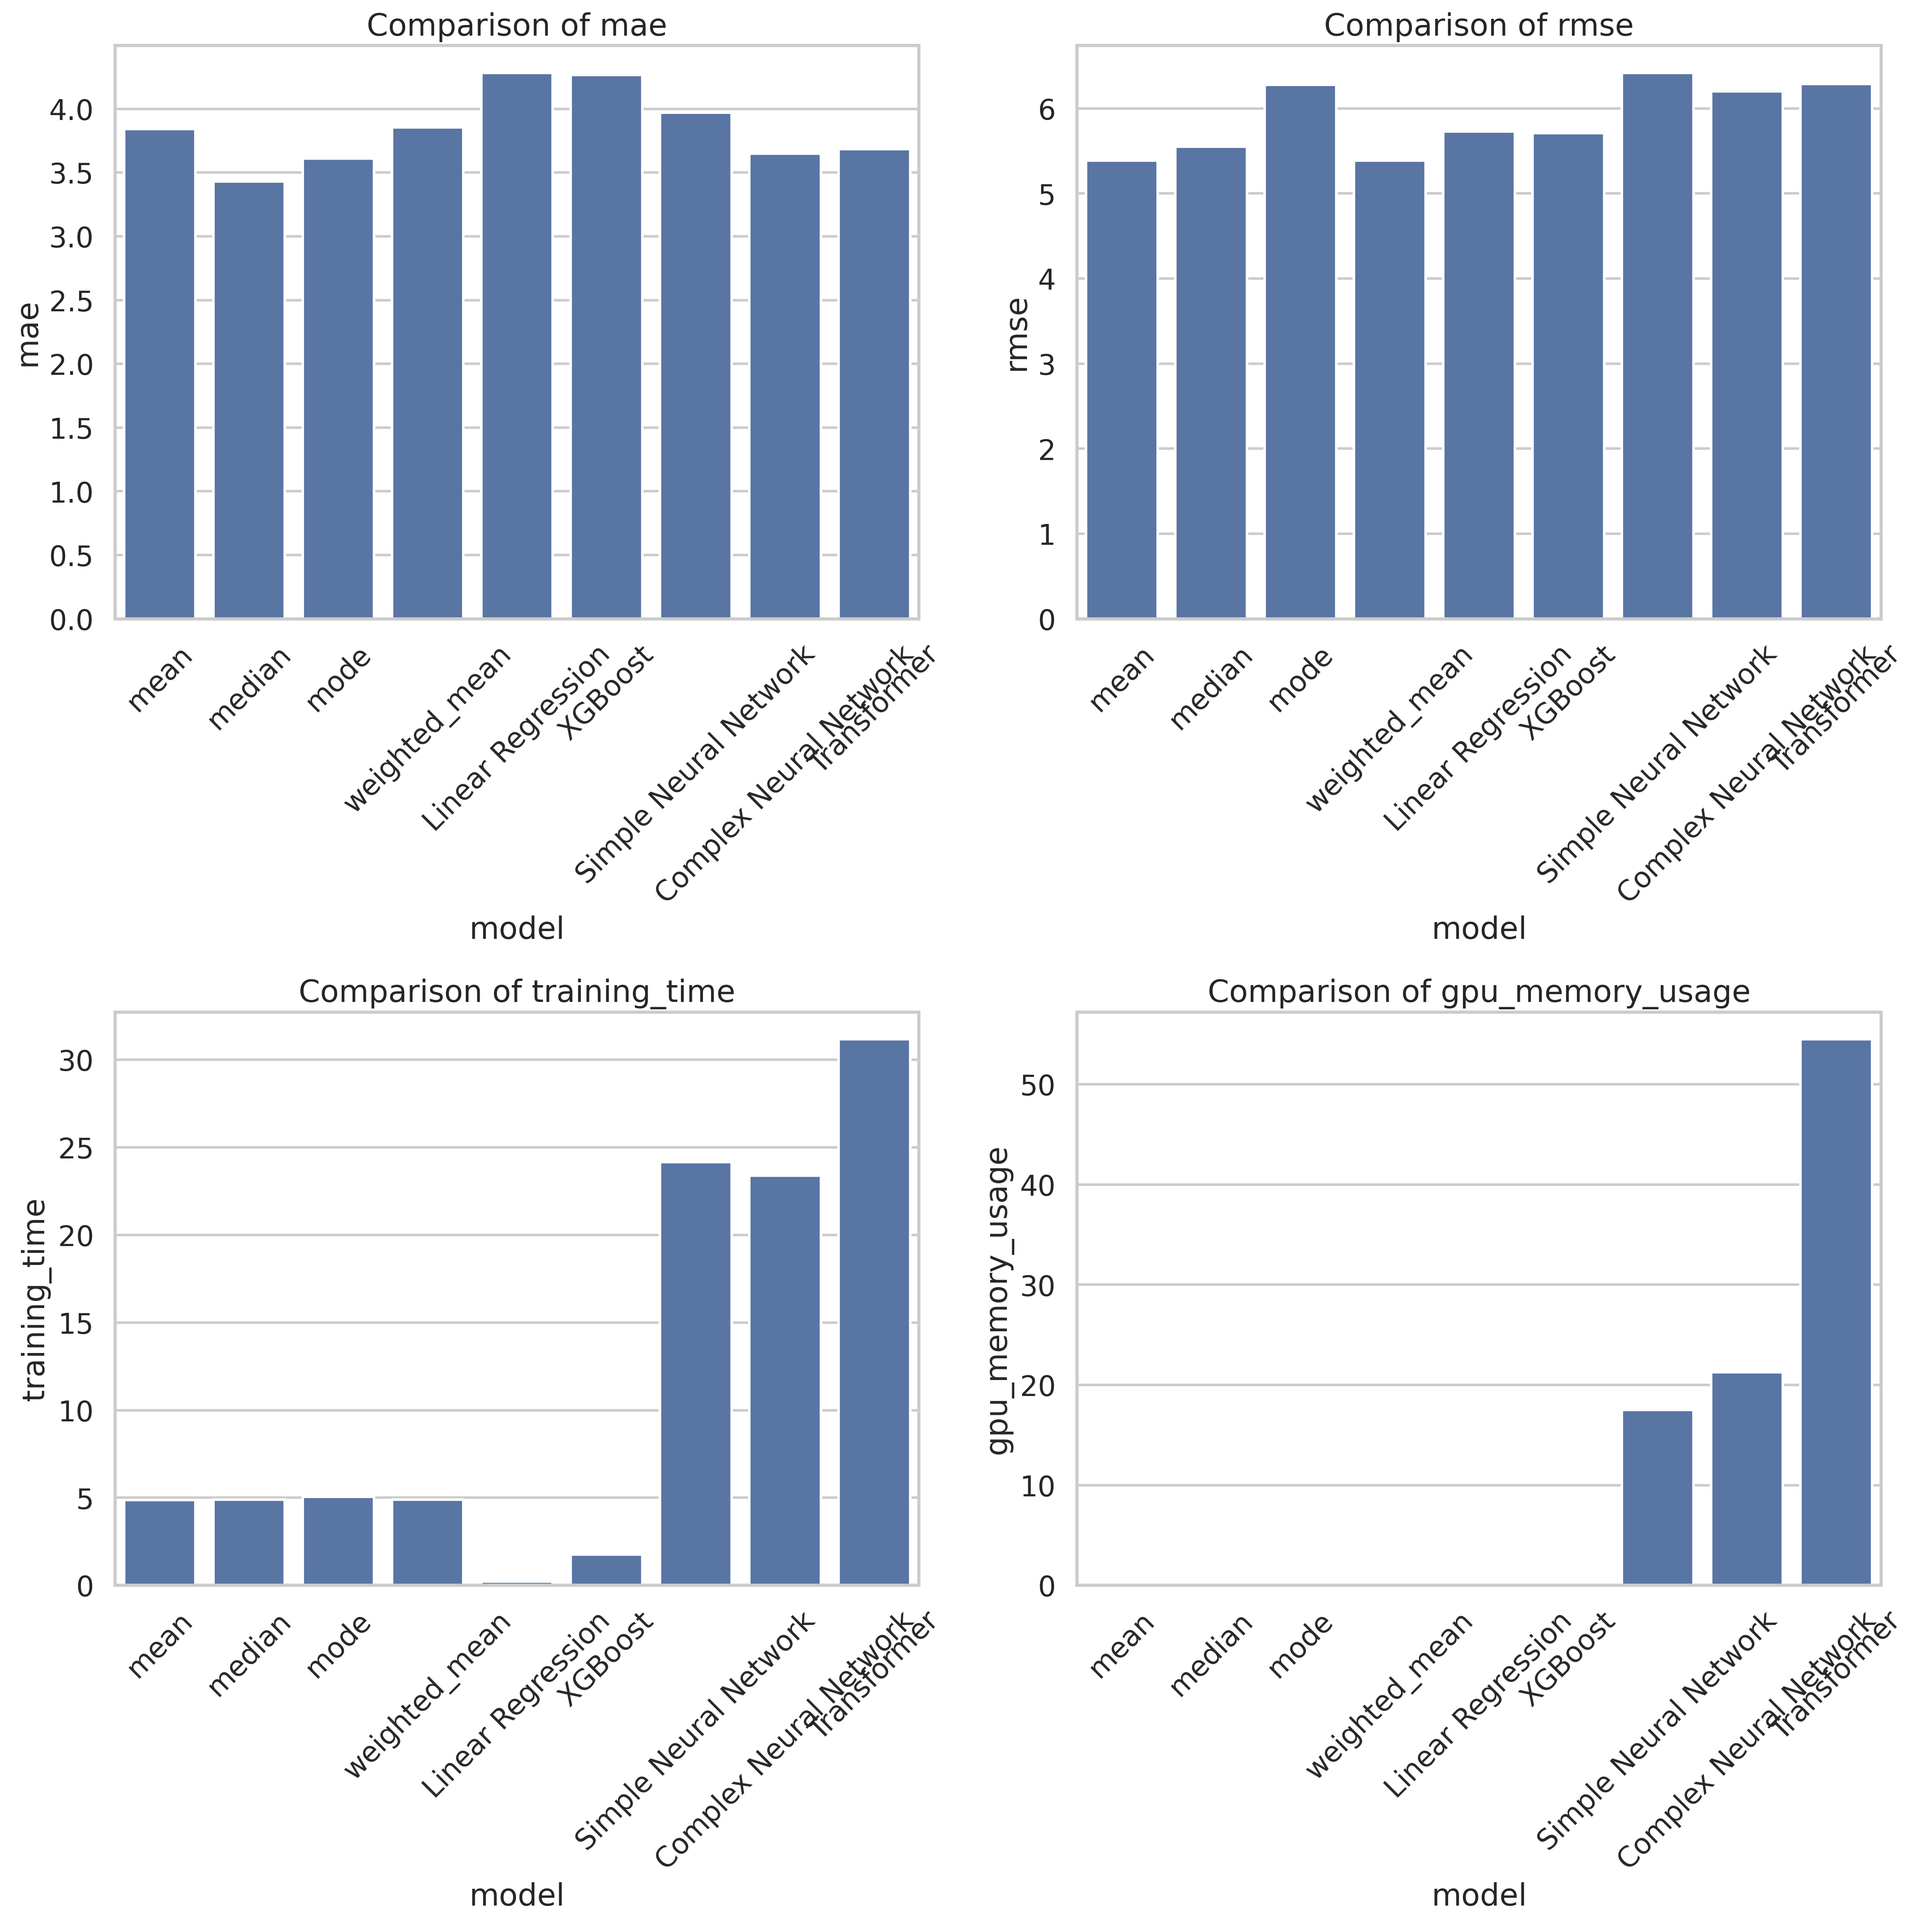
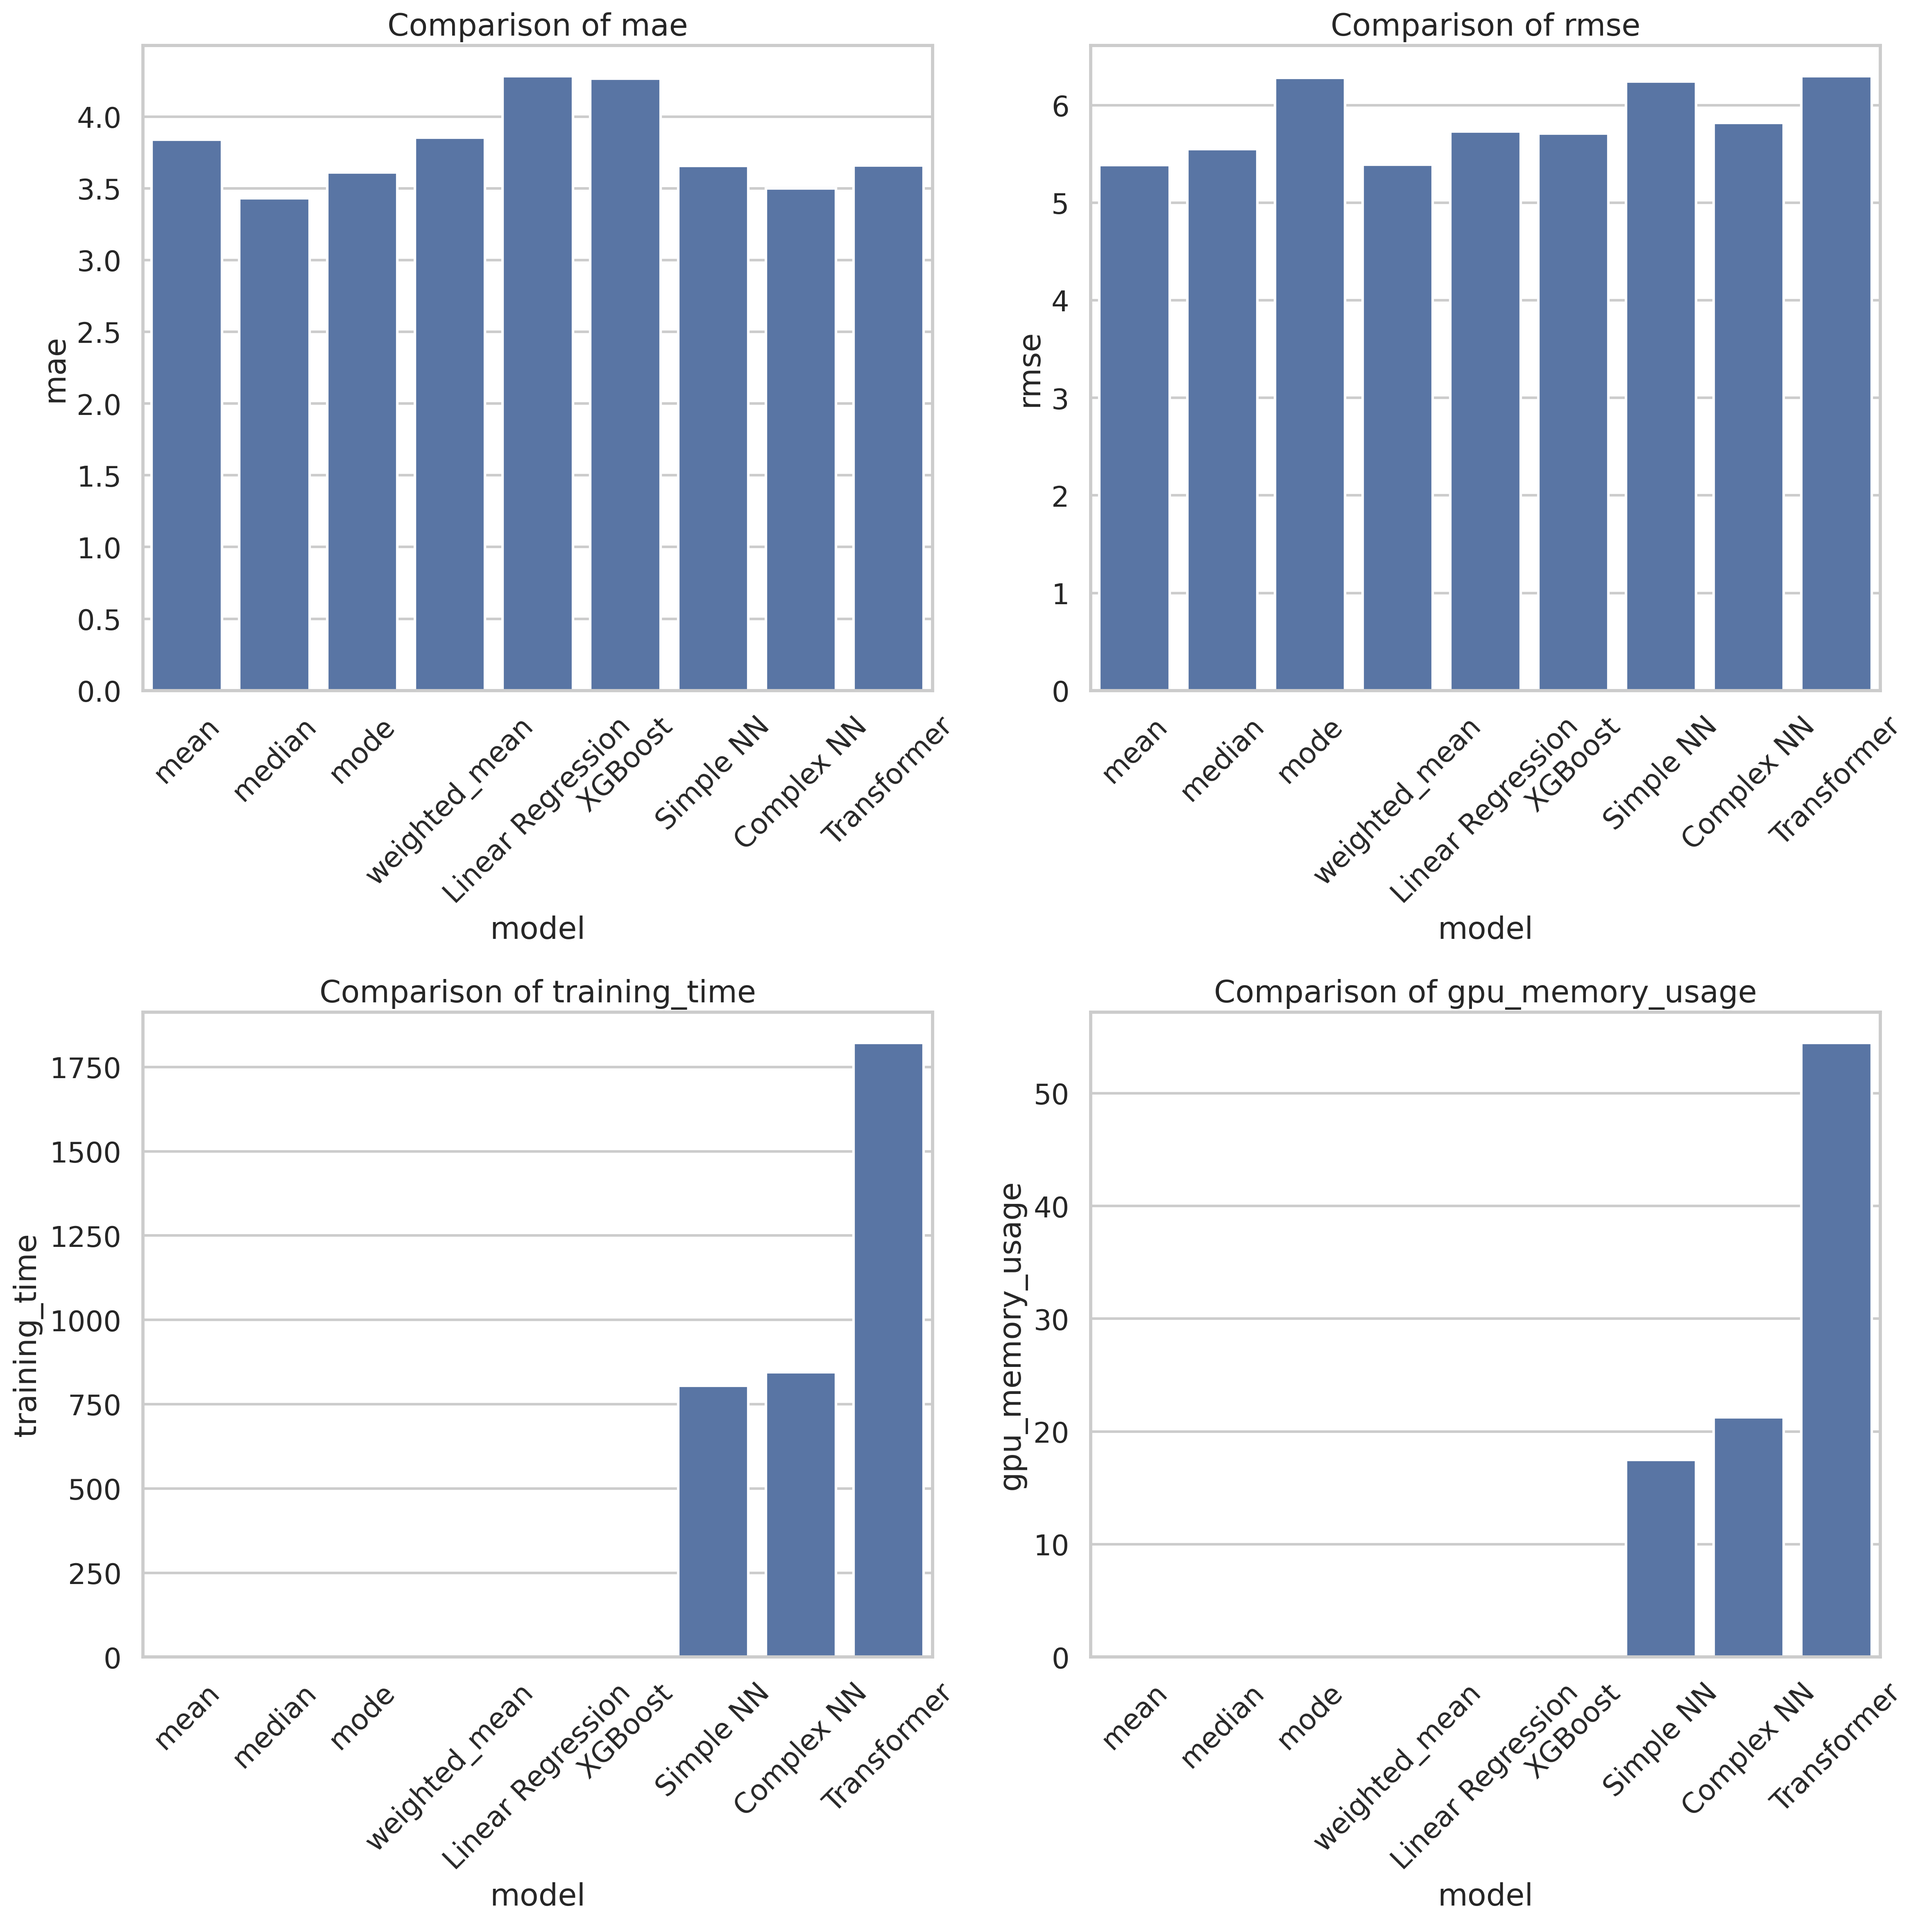
New, cleaner, figures generated.

diff --git a/train_models.py b/train_models.py
@@ -912,7 +912,7 @@ class SimpleNeuralNetwork(BaseModel):
 
     def __init__(self):
         """Initialize the simple neural network."""
-        super().__init__(name="Simple Neural Network")
+        super().__init__(name="Simple NN")
         self.early_stop_patience = 10
         self.best_val_loss = float("inf")
         self.patience_counter = 0
@@ -1170,7 +1170,7 @@ class ComplexNeuralNetwork(BaseModel):
 
     def __init__(self):
         """Initialize the complex neural network."""
-        super().__init__(name="Complex Neural Network")
+        super().__init__(name="Complex NN")
         self.early_stop_patience = 15
         self.best_val_loss = float("inf")
         self.patience_counter = 0
@@ -1977,6 +1977,8 @@ def main():
     # Step 4: Analyze by behavior profile
     print("\nAnalyzing by behavior profile...")
     model_predictions = {model.name: model.predict(X_test_orig) for model in models}
+    print("Prediction dict:")
+    print(model_predictions)
     behavior_df = analyzer.analyze_predictions_by_behavior(
         X_test_orig, y_test, model_predictions
     )
